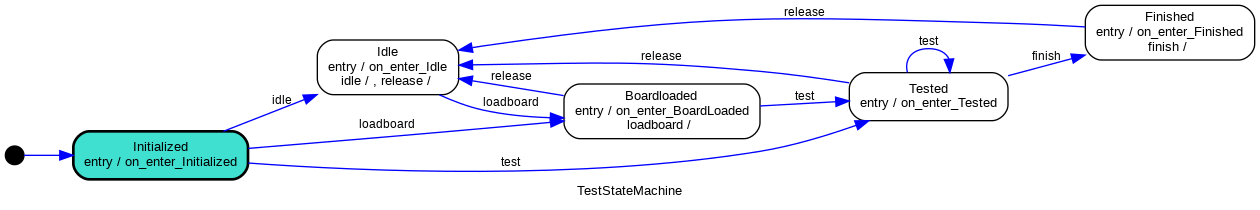
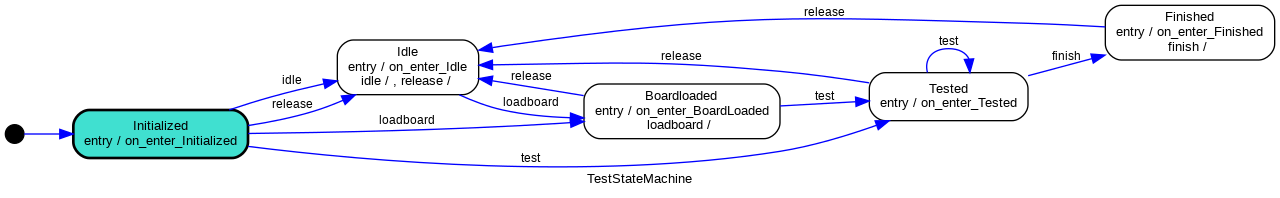
Feat: Add fixture temp persistance

diff --git a/Utils/TempThread.py b/Utils/TempThread.py
@@ -1,7 +1,8 @@
-import subprocess
-import threading
+from DataAccess.FixtureTempDAO import FixtureTempDAO
 from PyQt5 import QtCore
 from PyQt5.QtCore import pyqtSignal
+import subprocess
+import threading
 import time
 
 
@@ -9,14 +10,22 @@ class TempThread(QtCore.QThread):
     readed = pyqtSignal(float)
     unavailable = pyqtSignal()
 
-    def __init__(self, toolPath: str = "", bmcIp: str = "", interval: float = 1.5):
+    def __init__(
+        self,
+        toolPath: str = "",
+        bmcIp: str = "",
+        interval: float = 1.5,
+        fixtureId: int = 0,
+    ):
         super().__init__()
         self._toolPath = toolPath
         self._bmcIp = bmcIp
+        self._fixtureId = fixtureId
         self._isStarted = False
         self._interval = interval
         self._threadEvent = threading.Event()
         self._lastTemp = 0.0
+        self._fixtureTempDAO = FixtureTempDAO()
 
     def run(self):
         while True:
@@ -24,6 +33,7 @@ class TempThread(QtCore.QThread):
             try:
                 self._threadEvent.wait()
                 temp = self._read_temp()
+                self._fixtureTempDAO.add(self._fixtureId, temp)
             except Exception as e:
                 temp = None
                 print(f"TempThread error: {self._bmcIp}" + str(e))
@@ -42,16 +52,17 @@ class TempThread(QtCore.QThread):
     def _read_temp(self) -> float:
         try:
             temp = subprocess.getoutput(
-                "timeout 6s sh %s/Nitro/nitro-bmc -i %s sensors list |grep DTS|awk '{print $9}'"
+                "timeout 10s sh %s/Nitro/nitro-bmc -i %s sensors list |grep DTS|awk '{print $9}'"
                 % (self._toolPath, self._bmcIp)
             )
             return float(temp) / 1000
         except:
             return None
 
-    def resume(self, toolPath: str = "", bmcIp: str = ""):
+    def resume(self, toolPath: str = "", bmcIp: str = "", fixtureId: int = 0):
         self._toolPath = toolPath
         self._bmcIp = bmcIp
+        self._fixtureId = fixtureId
         self._threadEvent.set()
         self._isStarted = True
 

diff --git a/DataAccess/FixtureTempDAO.py b/DataAccess/FixtureTempDAO.py
@@ -1,0 +1,60 @@
+from Core.Enums.FixtureStatus import FixtureStatus
+from DataAccess.SqlAlchemyBase import Session
+from datetime import datetime, timedelta
+from Models.DTO.FixtureStatusLogDTO import FixtureStatusLogDTO
+from Models.DTO.FixtureTempDTO import FixtureTempDTO
+import random
+import sqlalchemy as db
+
+
+class FixtureTempDAO:
+    SQL_DATE_FORMAT = "%Y-%m-%d %H:%M:%S"
+
+    def add(
+        self,
+        fixtureId: int,
+        temp: float,
+    ):
+        tempDTO = FixtureTempDTO(
+            fixtureId=fixtureId, temp=temp, timeStamp=datetime.today().isoformat()
+        )
+        session = Session()
+        try:
+            session.add(tempDTO)
+            session.commit()
+        except:
+            session.rollback()
+            raise
+        finally:
+            session.close()
+            Session.remove()
+
+    def find_last_24H(self, fixtureIp: str):
+        now = datetime.now()
+        return self.find(fixtureIp, now - timedelta(days=1), now)
+
+    def find(
+        self, fixtureIp: str, start: datetime, end: datetime
+    ) -> "list[FixtureTempDTO]":
+        session = Session()
+        records = session.execute(
+            db.text(
+                f"""
+                SELECT
+                    fixtureId,
+                    temp,
+                    timeStamp
+                FROM 
+                    fixture_temp
+                WHERE
+                    timeStampEnd BETWEEN '{start.strftime(FixtureTempDAO.SQL_DATE_FORMAT)}' AND '{end.strftime(FixtureTempDAO.SQL_DATE_FORMAT)}'
+                    AND fixtureId = '{fixtureIp}';"""
+            )
+        )
+        temps = []
+        if records != None:
+            for record in records:
+                temp = float(record[1])
+                timestamp = datetime.strptime(record[2], format)
+                temps.append(FixtureTempDTO(temp=temp, timestamp=timestamp))
+        return temps

diff --git a/Products/Mobo/MoboTestAnalyzer.py b/Products/Mobo/MoboTestAnalyzer.py
@@ -59,15 +59,18 @@ class MoboTestAnalyzer(TestAnalyzer):
         return False
 
     def get_event(self) -> TestEvent:
+        event = None
         if self._stateMachine.can_test() and self.is_testing():
-            return TestEvent.Test
-        if self._stateMachine.can_load_board() and self.is_board_loaded():
-            return TestEvent.LoadBoard
-        if self._stateMachine.can_finish() and self.is_finished():
-            return TestEvent.Finish
-        if self._stateMachine.can_idle() and self.is_board_released():
-            return TestEvent.Release
-        return TestEvent.Idle
+            event = TestEvent.Test
+        elif self._stateMachine.can_load_board() and self.is_board_loaded():
+            event = TestEvent.LoadBoard
+        elif self._stateMachine.can_finish() and self.is_finished():
+            event = TestEvent.Finish
+        elif self._stateMachine.can_idle() and self.is_board_released():
+            event = TestEvent.Release
+        elif self._stateMachine.is_initialized():
+            event = TestEvent.Idle
+        return event
 
     def is_board_loaded(self) -> bool:
         return self._get_plc_status().is_board_loaded()
@@ -147,7 +150,7 @@ class MoboTestAnalyzer(TestAnalyzer):
             startDateTime=self._get_start_time(),
             outLog=self._currentLogPath,
         )
-        if testStatus == TestStatus.Tested:
+        if testStatus in [TestStatus.BoardLoaded, TestStatus.Tested]:
             testAnalysis.bmcIp = self._get_bmc_ip()
         elif testStatus == TestStatus.Finished:
             testAnalysis.result = self._get_test_result()

diff --git a/Views/Fixture/FixtureView.py b/Views/Fixture/FixtureView.py
@@ -380,13 +380,20 @@ class FixtureView(QGroupBox):
     def _on_terminal_boardLoaded(self, testAnalysis: TestAnalysis):
         self.fixture.testItem = "Pre-Test"
         self.fixture.isTesting = True
-        self._footer.start(testAnalysis)
+        self._footer.set_data(testAnalysis)
+        self._footer.set_badges_setVisible(True)
+        self._start_footer(testAnalysis)
 
     def _on_terminal_tested(self, testAnalysis: TestAnalysis):
         self.fixture.testTimer = testAnalysis.startDateTime
         self.fixture.testItem = testAnalysis.stepLabel
-        self._footer.start_temp(self._fctHostControlToolPath, testAnalysis)
         self.fixture.isTesting = True
+        self._start_footer(testAnalysis)
+
+    def _start_footer(self, testAnalysis: TestAnalysis):
+        self._footer.start_temp(
+            self._fctHostControlToolPath, testAnalysis, self.fixture.id
+        )
 
     def _on_terminal_testFinished(self, testAnalysis: TestAnalysis):
         if testAnalysis.is_pass_or_fail():

diff --git a/alembic/versions/ff88529d4209_add_fixture_temp.py b/alembic/versions/ff88529d4209_add_fixture_temp.py
@@ -1,0 +1,34 @@
+"""Add fixture temp
+
+Revision ID: ff88529d4209
+Revises: 9f2dacaaa5f3
+Create Date: 2023-11-22 10:34:28.761025
+
+"""
+from alembic import op
+import sqlalchemy as sa
+
+
+# revision identifiers, used by Alembic.
+revision = 'ff88529d4209'
+down_revision = '9f2dacaaa5f3'
+branch_labels = None
+depends_on = None
+
+
+def upgrade() -> None:
+    # ### commands auto generated by Alembic - please adjust! ###
+    op.create_table('fixture_temp',
+    sa.Column('id', sa.Integer(), nullable=False),
+    sa.Column('fixtureId', sa.Integer(), nullable=True),
+    sa.Column('temp', sa.Float(), nullable=True),
+    sa.Column('timeStamp', sa.TIMESTAMP(), nullable=True),
+    sa.PrimaryKeyConstraint('id')
+    )
+    # ### end Alembic commands ###
+
+
+def downgrade() -> None:
+    # ### commands auto generated by Alembic - please adjust! ###
+    op.drop_table('fixture_temp')
+    # ### end Alembic commands ###

diff --git a/Views/Fixture/FixtureFooterView.py b/Views/Fixture/FixtureFooterView.py
@@ -59,17 +59,13 @@ class FixtureFooterView(QtWidgets.QFrame):
             color = "#C44D56"
         return color
 
-    def start(self, testAnalysis: TestAnalysis):
+    def set_data(self, testAnalysis: TestAnalysis):
         self._bdgSerialNumber.setText(testAnalysis.serialNumber)
         self._bdgMac.setText(testAnalysis.mac)
-        self.set_badges_setVisible(True)
 
-    def start_temp(self, toolPath: str, testAnalysis: TestAnalysis):
+    def start_temp(self, toolPath: str, testAnalysis: TestAnalysis, fixtureId: int):
         if self._can_start_temp_view(testAnalysis):
-            self._tempView.start(
-                toolPath,
-                testAnalysis.bmcIp,
-            )
+            self._tempView.start(toolPath, testAnalysis.bmcIp, fixtureId)
 
     def _can_start_temp_view(self, testAnalysis: TestAnalysis):
         return (

diff --git a/Models/DTO/FixtureTempDTO.py b/Models/DTO/FixtureTempDTO.py
@@ -1,0 +1,22 @@
+from datetime import datetime
+from DataAccess.SqlAlchemyBase import Base
+from sqlalchemy import Column, Float, Integer, TIMESTAMP
+
+
+class FixtureTempDTO(Base):
+    __tablename__ = "fixture_temp"
+
+    id = Column(Integer, primary_key=True)
+    fixtureId = Column(Integer)
+    temp = Column(Float)
+    timeStamp = Column(TIMESTAMP)
+
+    def __init__(
+        self,
+        fixtureId: int = 0,
+        temp: float = 0.0,
+        timeStamp: datetime = None,
+    ) -> None:
+        self.fixtureId = fixtureId
+        self.temp = temp
+        self.timeStamp = timeStamp

diff --git a/Views/TempView.py b/Views/TempView.py
@@ -65,10 +65,10 @@ class TempView(QtWidgets.QWidget):
         )
         self.setStyleSheet(f"background-color: {color};")
 
-    def start(self, toolPath: str = "", bmcIp: str = ""):
+    def start(self, toolPath: str = "", bmcIp: str = "", fixtureId: int = 0):
         self._on_temp_unavailable()
         self.show()
-        self._tempThread.resume(toolPath, bmcIp)
+        self._tempThread.resume(toolPath, bmcIp, fixtureId)
 
     def pause(self):
         self._tempThread.pause()

diff --git a/Core/StateMachines/TestStateMachine.py b/Core/StateMachines/TestStateMachine.py
@@ -52,3 +52,6 @@ class TestStateMachine(StateMachine):
             TestStatus.BoardLoaded.value,
             TestStatus.Initialized.value,
         ]
+
+    def is_initialized(self):
+        return self.current_state.value == TestStatus.Initialized.value

diff --git a/Widgets/PlcDataViewer/NullPlcStatus.py b/Widgets/PlcDataViewer/NullPlcStatus.py
@@ -9,7 +9,7 @@ class NullPlcStatus(PlcStatus):
         return False
 
     def is_board_released(self) -> bool:
-        return True
+        return False
 
     def is_testing(self) -> bool:
         return False

diff --git a/alembic/env.py b/alembic/env.py
@@ -25,7 +25,8 @@ from Models.DTO import (
     MaintenanceDTO,
     EmployeeDTO,
     SettingDTO,
-    CatalogItemDTO
+    CatalogItemDTO,
+    FixtureTempDTO,
 )
 from DataAccess.SqlAlchemyBase import Base
 
